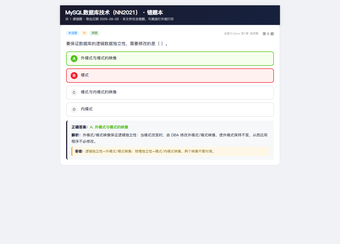
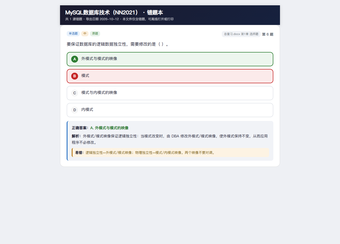
assets(preview): 复习题/错题本预览改用真实课程 + 当前渲染器重录；README/SKILL 文案同步「隐藏AI题」

diff --git a/SKILL.md b/SKILL.md
@@ -201,7 +201,7 @@ python <skill目录>/scripts/render_graph.py <资料目录>
 | 脚本 | 产物 | 内容 |
 |---|---|---|
 | render_outline.py | `<课程名>-知识清单.html` | Claude 式杂志感双栏：暖奶油纸底 + 单一珊瑚 accent，衬线大标题（Georgia）+ 无衬线正文；左 sticky sidebar（两级目录、滚动同步高亮 **且左栏自动滚到激活项**、可拖拽 180–560px、可折叠成 60px 章节色点导航）+ 右正文；正文宽度随右区可用宽度自适应（Ctrl+滚轮缩放不跳偏、不横向溢出）；章节标题 = 衬线编号 + 细分隔线（零大色块）；知识点挂四色**色点胶囊标签**（必考/重点/高频/了解，无 emoji）；**content 里的 **术语** 渲染为墨色加粗**；importance=must 知识点 = 珊瑚左细线 + 浅珊瑚底 + 左上角「必考考点」微标；顶部 sticky 阅读进度条 + 回顶按钮 + stagger reveal 动效；章末折叠自测（selftests）；右栏阅读区 GPT 式排版：正文 17px/行高 2.0、墨色正文，content 里的「；」并列要点自动拆成带圆点的逐条列表、段间明显留白，行内 code 用浅灰底等宽、代码块加大内边距 |
-| render_quiz.py | `<课程名>-复习题.html` | 刷题 App 风：深色 header（右上角 ▲/▼ 可折叠顶部栏）+ 统计条 + 题型 tab（做题进度全页只留 header 底部那一条常驻细线，不再另设第二条进度条）（固定 单选/多选/判断/填空/客观题/主观题，客观在前主观在后，0 道也占位；与章节行同用「题型/章节」分组标签，横向可滚且能滚时右缘渐隐提示）+ **章节 tab（显示真实章节名；questions.json 缺 label 时按 id 从 knowledge_skeleton 补齐，不再显示 ch1/ch2；章节名多放不下时鼠标滚轮可横向滚动、滚动条保持隐藏）** + 刷题模式（全部题目/随机顺序/极速刷题/未作答/错题本；**极速刷题**一次把当前筛选题目整页列出、下滑就地作答、顶栏常驻，不必点“下一题”）；刷题模式行与题型/章节同构（左侧固定标签 + 右侧自己横滚的按钮条，横滚时「刷题模式」不会被滚走，窄屏不再整行横滚、右缘渐隐随滚动位置收起）；单题视图逐题判对错、高亮答案、显示解析与易错点（单选/判断点选项即自动判分；**填空题空位兼容 `___` 与中文 `【】`，空位不足或题干没写空位时自动在题干下方补足输入框，使输入框数不少于答案数**）；做错的题自动进「错题本」可重刷、顶栏「导出错题」按钮可一键下载仅含错题的离线 HTML（受去AI影响，无错题时禁用；导出与打印均不含题号导航与重做按钮）；顶部深色栏右侧提供「隐藏AI题/恢复AI题/无AI题」三态切换（一键隐藏/恢复 AI 生成题）与「掌握度报告」入口；统计条为「已答 x/总数 · 正确 · 正确率」（点「已答」即打开掌握度报告；正确率未作答时显示 —，0 值转灰）；顶栏底部常驻一条完成度细线，顶栏折叠后标题下出现「题型 · 章节 · 模式」筛选摘要胶囊，滚动或收起后仍知道当前筛的是什么；主观题一键看参考答案、提交后显示蓝底「已记录，可对照下方参考答案」确认条（不判对错）；多选题作答区实时显示「已选 n 项」；未作答模式下答完一题即从列表移出（含主观题），答完最后一题显示「题目已全部作答」；答题后出现「重做本题」可撤销该题记录重新作答（错题本/未作答模式改对或撤销后列表自动重建）；每张卡答完结果条自动进入视野（不重复打扰）；「掌握度报告」按知识点聚合得分率标薄弱、以弹窗形式展示；**右侧可折叠「题号导航」答案卡**（列出去AI×题型×章节 命中的题并连续重编号 1..N，卡片「第 N 题」同步重排；四色状态：未答/当前/已答/答错 + 底部图例；点号跳到该题——错题本/未作答等模式不含该题时自动切回「全部题目」再跳，极速刷题模式滚动定位并高亮；PC 贴右常驻可折叠、展开时页面内容让位不遮挡，移动端右侧滑出抽屉 + 遮罩、点号跳转后自动收起；开合状态记入 localStorage）；题号格带 aria-label；选项支持 roving tabindex（方向键组内移焦点、Enter/Space 等同点击，aria-checked 同步）与字母/数字快捷键（A–H、1–9 直接选答，判断题另支持 T/F；单选/判断点完即判分，多选可连按切换）、填空输入框回车即提交；未作答就点提交时在题卡内就地提示（不再 alert 打断），单题视图不再在卡片与底部栏重复两个「提交答案」；空筛选显示标题 + 「清空筛选」出口；页面隐藏滚动条但保留滚动，并在滚动超过一屏后于右下角浮出「回到顶部」按钮（避开底部栏；PC 题号导航展开时自动让位，窄屏位于抽屉遮罩之下）；**题内搜索**（题干/选项/答案/知识点，与筛选联动）；**标记⭐**（卡片星标 + 「⭐ 标记」模式 + 面板角标）；**蒙对标记**（答对后一键标记，面板橙点、报告单列计数）；**模拟考试模式**（题量 + **自定义时长 1–180 分钟**（档位按钮只做快捷填充，输入框才是真源）→ 顶栏倒计时条 + 未答计数（绿色进度条 = 时间流逝，最后 1 分钟转红）；**点开考试设置即自动收起右侧题号导航**，**开考后统计条与筛选整区也自动收起**（只留计时条与卷面，交卷/退出按考试前的开合状态还原）；已有作答时先弹确认，可选「清空并开始」（清空作答/错题/得分/蒙对标记）或取消；考试中不判分不揭晓、面板只标「已作答」，交卷统一判分并给逐题结果与正确率，可随时退出）；顶栏「导出」菜单（窄屏打开时按视口夹住在内，不被左缘裁切）：错题 HTML / **打印双卷**（含答案卷、空白练习卷，按当前筛选、零装饰，打印走隐藏 iframe 的独立文档）/ **导出 Word .docx**（手写最小 OOXML + store 模式 zip，浏览器内零依赖离线生成）；掌握度报告加**章节完成度**（含主观题，提交即算完成）与知识点所在章节列；顶栏在宽窄屏一致（不做筛选折叠，搜索/题型/章节/刷题模式各行常显；窄屏改由顶栏 ▲ 一键收起整块）；题号格用 roving tabindex（整片只占一个 Tab 位，格子内方向键 = 换题）；题型/章节/模式三排刻意不接管方向键（方向键始终只负责切题，Tab 才管焦点），焦点在按钮上时字母/数字键不再误选答；Ctrl+P 打印时全部题目+答案+解析展开、导出错题与打印均不含面板 |
+| render_quiz.py | `<课程名>-复习题.html` | 刷题 App 风：深色 header（右上角 ▲/▼ 可折叠顶部栏）+ 统计条 + 题型 tab（做题进度全页只留 header 底部那一条常驻细线，不再另设第二条进度条）（固定 单选/多选/判断/填空/客观题/主观题，客观在前主观在后，0 道也占位；与章节行同用「题型/章节」分组标签，横向可滚且能滚时右缘渐隐提示）+ **章节 tab（显示真实章节名；questions.json 缺 label 时按 id 从 knowledge_skeleton 补齐，不再显示 ch1/ch2；章节名多放不下时鼠标滚轮可横向滚动、滚动条保持隐藏）** + 刷题模式（全部题目/随机顺序/极速刷题/未作答/错题本；**极速刷题**一次把当前筛选题目整页列出、下滑就地作答、顶栏常驻，不必点“下一题”）；刷题模式行与题型/章节同构（左侧固定标签 + 右侧自己横滚的按钮条，横滚时「刷题模式」不会被滚走，窄屏不再整行横滚、右缘渐隐随滚动位置收起）；单题视图逐题判对错、高亮答案、显示解析与易错点（单选/判断点选项即自动判分；**填空题空位兼容 `___` 与中文 `【】`，空位不足或题干没写空位时自动在题干下方补足输入框，使输入框数不少于答案数**）；做错的题自动进「错题本」可重刷、顶栏「导出错题」按钮可一键下载仅含错题的离线 HTML（受隐藏AI题开关影响，无错题时禁用；导出与打印均不含题号导航与重做按钮）；顶部深色栏右侧提供「隐藏AI题/恢复AI题/无AI题」三态切换（一键隐藏/恢复 AI 生成题）与「掌握度报告」入口；统计条为「已答 x/总数 · 正确 · 正确率」（点「已答」即打开掌握度报告；正确率未作答时显示 —，0 值转灰）；顶栏底部常驻一条完成度细线，顶栏折叠后标题下出现「题型 · 章节 · 模式」筛选摘要胶囊，滚动或收起后仍知道当前筛的是什么；主观题一键看参考答案、提交后显示蓝底「已记录，可对照下方参考答案」确认条（不判对错）；多选题作答区实时显示「已选 n 项」；未作答模式下答完一题即从列表移出（含主观题），答完最后一题显示「题目已全部作答」；答题后出现「重做本题」可撤销该题记录重新作答（错题本/未作答模式改对或撤销后列表自动重建）；每张卡答完结果条自动进入视野（不重复打扰）；「掌握度报告」按知识点聚合得分率标薄弱、以弹窗形式展示；**右侧可折叠「题号导航」答案卡**（列出隐藏AI题×题型×章节 命中的题并连续重编号 1..N，卡片「第 N 题」同步重排；四色状态：未答/当前/已答/答错 + 底部图例；点号跳到该题——错题本/未作答等模式不含该题时自动切回「全部题目」再跳，极速刷题模式滚动定位并高亮；PC 贴右常驻可折叠、展开时页面内容让位不遮挡，移动端右侧滑出抽屉 + 遮罩、点号跳转后自动收起；开合状态记入 localStorage）；题号格带 aria-label；选项支持 roving tabindex（方向键组内移焦点、Enter/Space 等同点击，aria-checked 同步）与字母/数字快捷键（A–H、1–9 直接选答，判断题另支持 T/F；单选/判断点完即判分，多选可连按切换）、填空输入框回车即提交；未作答就点提交时在题卡内就地提示（不再 alert 打断），单题视图不再在卡片与底部栏重复两个「提交答案」；空筛选显示标题 + 「清空筛选」出口；页面隐藏滚动条但保留滚动，并在滚动超过一屏后于右下角浮出「回到顶部」按钮（避开底部栏；PC 题号导航展开时自动让位，窄屏位于抽屉遮罩之下）；**题内搜索**（题干/选项/答案/知识点，与筛选联动）；**标记⭐**（卡片星标 + 「⭐ 标记」模式 + 面板角标）；**蒙对标记**（答对后一键标记，面板橙点、报告单列计数）；**模拟考试模式**（题量 + **自定义时长 1–180 分钟**（档位按钮只做快捷填充，输入框才是真源）→ 顶栏倒计时条 + 未答计数（绿色进度条 = 时间流逝，最后 1 分钟转红）；**点开考试设置即自动收起右侧题号导航**，**开考后统计条与筛选整区也自动收起**（只留计时条与卷面，交卷/退出按考试前的开合状态还原）；已有作答时先弹确认，可选「清空并开始」（清空作答/错题/得分/蒙对标记）或取消；考试中不判分不揭晓、面板只标「已作答」，交卷统一判分并给逐题结果与正确率，可随时退出）；顶栏「导出」菜单（窄屏打开时按视口夹住在内，不被左缘裁切）：错题 HTML / **打印双卷**（含答案卷、空白练习卷，按当前筛选、零装饰，打印走隐藏 iframe 的独立文档）/ **导出 Word .docx**（手写最小 OOXML + store 模式 zip，浏览器内零依赖离线生成）；掌握度报告加**章节完成度**（含主观题，提交即算完成）与知识点所在章节列；顶栏在宽窄屏一致（不做筛选折叠，搜索/题型/章节/刷题模式各行常显；窄屏改由顶栏 ▲ 一键收起整块）；题号格用 roving tabindex（整片只占一个 Tab 位，格子内方向键 = 换题）；题型/章节/模式三排刻意不接管方向键（方向键始终只负责切题，Tab 才管焦点），焦点在按钮上时字母/数字键不再误选答；Ctrl+P 打印时全部题目+答案+解析展开、导出错题与打印均不含面板 |
 | render_graph.py | `<课程名>-知识图谱.html` | Claude 式杂志感（与知识清单同源配色/字体），**两级放射 · 总览 + 点章展开**：暖奶油纸底 + 珊瑚 accent，居中 hero；图谱放进固定高度的圆角舞台（内容不把页面撑长），**总览 = 中央「课程」胶囊 + 一圈章节节点**（编号 + 标题，辐线连中心，一屏扫结构；**编号与标题首行共用基线、画在胶囊内**，常驻可见，聚焦某章时随该章一起变淡）；**点某章 → 该章知识点朝外展开成扇形**（章→知识点浅线 + 章内 `deps` 虚线依赖，`is_hub` 加 ★；画布自动放大聚焦到这一章，其余章节变淡），点空白/课程/再点同章回总览；知识点胶囊四色重要度（必考珊瑚/重点金棕/高频蓝灰/了解灰绿），悬停 tooltip 显示内容并去掉 markdown 加粗；拖拽平移、滚轮缩放、双指 pinch、按 0 回总览；知识点布局每章做去重叠排版，间距宽松；图谱区右上角有「全屏 / 退出全屏」按钮，方便整屏看图谱 |
 
 三份 HTML 均单文件、无外部 CDN 依赖（离线可开），可 Ctrl+P 打印为 PDF。

diff --git a/README.md b/README.md
@@ -8,8 +8,8 @@
 | 产物 | 你拿它做什么 | 预览 |
 |---|---|---|
 | **知识清单** | 按章背诵：杂志式章卡分组；知识点四色重要度；content 自动把比较/并列渲染成**对比表、流程、分类**（少超长句）；章末折叠自测 | [![知识清单预览](showcase/preview/outline-thumb.png)](showcase/preview/outline.png) |
-| **复习题** | 逐题作答、自动批改、逐题解析；题型/章节/刷题模式三行同一套结构（左侧固定分组标签 + 右侧自己横滚的胶囊条 + 右缘渐隐，横滚时标签不会跟着滚走）；折叠顶栏后显示当前筛选摘要胶囊、顶栏底部常驻完成度细线；**极速刷题**整页下滑作答、顶栏**隐藏AI题**（隐藏/恢复 AI 生成题）、**错题本 + 顶栏一键导出错题 HTML**（无错题时禁用）、答完可**重做本题**（主观题提交后有「已记录」确认条，多选题实时显示「已选 n 项」，未作答模式答完自动移出列表）、键盘 ←/→/Enter 切题，选项支持方向键 + Enter/Space 或字母/数字快捷键（A–H / 1–9，判断题 T/F，含 aria 无障碍）；未作答就提交改为就地提示不弹窗；页面隐藏滚动条但右下角有「回到顶部」浮动按钮；**统计条可点开掌握度报告**（已答 x/总数 · 正确 · 正确率）；蓝=当前 / 绿=对 / 红=错 / 灰=未答的配色语义统一；**右侧题号导航**（答案卡式网格，随去AI/题型/章节筛选连续重编号、点号跳题，PC 贴右可折叠 / 移动端右滑抽屉且点号跳转后自动收起；题号格键盘可达：整片格子只占一个 Tab 位，格子内方向键 = 上一题/下一题）；**题目搜索**（题干/选项/答案/知识点，与筛选、摘要联动）；**标记题 ⭐**（星标重点题，面板加角标 + 「⭐ 标记」模式集中复习）；**蒙对标记**（答对后一键记为「蒙对的」，面板加橙点、报告单列计数）；**模拟考试**（题量 + **自定义时长 1–180 分钟**（档位只是快捷填充）、点开即自动收起题号导航、已有作答时先确认「清空并开始」、开考后统计与筛选整区自动收起（只留计时条与卷面，交卷/退出后按考试前的开合状态还原）、顶栏倒计时 + 未答计数，绿色进度条走的是**时间流逝**而不是答题完成度、考试中不揭晓对错、交卷统一判分并给出逐题结果）；顶栏**导出菜单**：错题 HTML、**打印双卷**（含答案卷 / 空白练习卷，按当前筛选、零装饰）与**导出 Word .docx**（浏览器内零依赖离线生成，只要题目和答案，像老师发的卷子）；掌握度报告新增**按章节完成度**；顶栏在宽窄屏一致（不做筛选折叠，搜索/题型/章节/刷题模式各行常显；窄屏改由顶栏 ▲ 一键收起整块） | [![复习题预览](showcase/preview/quiz-thumb.png)](showcase/preview/quiz.png) |
-| **复习题 · 错题本导出** | 由复习题一键生成的独立离线 HTML：仅含错题、答案展开、可打印（受"去AI"影响） | [![错题导出预览](showcase/preview/wrong-thumb.png)](showcase/preview/wrong.png) |
+| **复习题** | 逐题作答、自动批改、逐题解析；题型/章节/刷题模式三行同一套结构（左侧固定分组标签 + 右侧自己横滚的胶囊条 + 右缘渐隐，横滚时标签不会跟着滚走）；折叠顶栏后显示当前筛选摘要胶囊、顶栏底部常驻完成度细线；**极速刷题**整页下滑作答、顶栏**隐藏AI题**（隐藏/恢复 AI 生成题）、**错题本 + 顶栏一键导出错题 HTML**（无错题时禁用）、答完可**重做本题**（主观题提交后有「已记录」确认条，多选题实时显示「已选 n 项」，未作答模式答完自动移出列表）、键盘 ←/→/Enter 切题，选项支持方向键 + Enter/Space 或字母/数字快捷键（A–H / 1–9，判断题 T/F，含 aria 无障碍）；未作答就提交改为就地提示不弹窗；页面隐藏滚动条但右下角有「回到顶部」浮动按钮；**统计条可点开掌握度报告**（已答 x/总数 · 正确 · 正确率）；蓝=当前 / 绿=对 / 红=错 / 灰=未答的配色语义统一；**右侧题号导航**（答案卡式网格，随隐藏AI题/题型/章节筛选连续重编号、点号跳题，PC 贴右可折叠 / 移动端右滑抽屉且点号跳转后自动收起；题号格键盘可达：整片格子只占一个 Tab 位，格子内方向键 = 上一题/下一题）；**题目搜索**（题干/选项/答案/知识点，与筛选、摘要联动）；**标记题 ⭐**（星标重点题，面板加角标 + 「⭐ 标记」模式集中复习）；**蒙对标记**（答对后一键记为「蒙对的」，面板加橙点、报告单列计数）；**模拟考试**（题量 + **自定义时长 1–180 分钟**（档位只是快捷填充）、点开即自动收起题号导航、已有作答时先确认「清空并开始」、开考后统计与筛选整区自动收起（只留计时条与卷面，交卷/退出后按考试前的开合状态还原）、顶栏倒计时 + 未答计数，绿色进度条走的是**时间流逝**而不是答题完成度、考试中不揭晓对错、交卷统一判分并给出逐题结果）；顶栏**导出菜单**：错题 HTML、**打印双卷**（含答案卷 / 空白练习卷，按当前筛选、零装饰）与**导出 Word .docx**（浏览器内零依赖离线生成，只要题目和答案，像老师发的卷子）；掌握度报告新增**按章节完成度**；顶栏在宽窄屏一致（不做筛选折叠，搜索/题型/章节/刷题模式各行常显；窄屏改由顶栏 ▲ 一键收起整块） | [![复习题预览](showcase/preview/quiz-thumb.png)](showcase/preview/quiz.png) |
+| **复习题 · 错题本导出** | 由复习题一键生成的独立离线 HTML：仅含错题、答案展开、可打印（受"隐藏AI题"开关影响，不含题号导航与重做按钮） | [![错题导出预览](showcase/preview/wrong-thumb.png)](showcase/preview/wrong.png) |
 | **知识图谱** | **放射总览**（课程→章节一圈），点某章向外展开它的知识点、点气泡看结构化详情；可全屏 | [![知识图谱预览](showcase/preview/graph-thumb.png)](showcase/preview/graph.png) |
 
 <sub>三份均单文件、离线可开可打印；桌面与移动端已分别适配（移动端表格/字号专项处理）。缩略图为桌面小图，点击可看全尺寸。</sub>
@@ -125,7 +125,7 @@ scripts/                         # 扫描、提取和三种 HTML renderer
 showcase/
 ├── fixture/course.json          # 独立措辞的公开演示数据（骨架 + 题库 schema 范本）
 ├── build_showcase.py            # 确定性构建 + PII/静态安全校验 → showcase/output
-├── screenshot_showcase.py       # 重录 README 三张预览图 → showcase/preview
+├── screenshot_showcase.py       # 重录 README 预览图（三产物 + 错题本导出） → showcase/preview
 ├── preview/*.png                # README 首屏产物预览（已入库）
 ├── expected/                    # verification.json 结构契约
 └── output/                      # 构建产物（gitignore，不提交）
